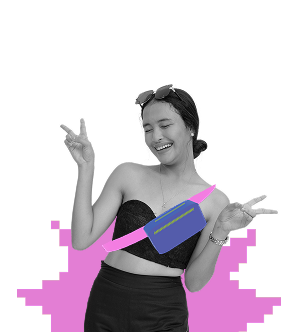
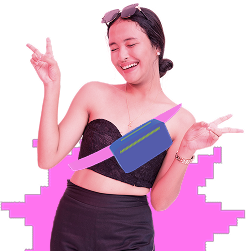
#58 adding extra content, images, updating the current style & more

diff --git a/website/campaignsite/src/css/global.css b/website/campaignsite/src/css/global.css
@@ -329,23 +329,46 @@ Image {
     box-shadow: 0rem 0rem var(--color-accent-green);
 }
 
+.pov__cards {
+    display: flex;
+    flex-flow: row nowrap;
+    justify-content: space-around;
+}
+
 .pov__card {
     background: var(--color-white);
-    max-width: 20rem;
+    max-width: 18rem;
+    width: 100%;
+}
+
+.pov__image {
+    justify-self: end;
+}
+
+.pov__title {
+    font-family: "AntwerpRegular";
+    font-size: 24px;
+    padding: 1rem;
 }
 
 .pov__content {
     display: grid;
     place-items: center;
+    height: 100%;
 }
 
 .pov__bottom {
     background: var(--color-accent-green);
     padding: 1rem;
+    width: 100%;
+    min-height: 7rem;
+    align-self: end;
 }
 
 .pov__text {
     text-align: center;
+    font-family: "SunAntwerpen";
+    font-weight: 700;
 }
 
 /* From screen to citytrip ah */
@@ -404,29 +427,45 @@ Image {
 /* Locations */
 .locations {
     place-items: center;
-    background: var(--color-blue);
-    padding: 2rem 0;
     display: flex;
     flex-flow: column nowrap;
-    gap: 2rem;
     overflow: hidden;
 }
 
 .locations__title {
     font-family: "AntwerpRegular";
     font-size: var(--step-0-h2);
-    color: var(--color-white);
+    color: var(--color-black);
     text-align: center;
+    background: var(--color-accent-green);
+    padding: 0.25rem 2rem;
+    translate: 0 2rem;
 }
 
 .locations__list {
     display: flex;
+    justify-content: center;
+    align-items: center;
     color: var(--color-white);
     gap: var(--space-l);
+    background: var(--color-blue);
+    width: 100%;
+    padding: 5rem 0;
 }
 
 .location {
     place-items: center;
+}
+
+.location__city {
+    font-family: "AntwerpRegular";
+    font-weight: 500;
+    color: var(--color-accent-green);
+    padding: 1rem 0;
+}
+
+.locations__bottom {
+    background: var(--color-blue);
 }
 
 /* featured */
@@ -443,6 +482,13 @@ Image {
     overflow: hidden;
 }
 
+.featured__container {
+    display: flex;
+    flex-flow: column nowrap;
+    gap: 5rem;
+    padding: 2rem 0;
+}
+
 .featured__pt2 {
     display: grid;
     padding: 0 0 0 0;
@@ -454,7 +500,6 @@ Image {
     font-family: "AntwerpRegular";
     font-size: var(--step-0-h2);
     font-weight: 500;
-    text-align: center;
 }
 
 .featured__content {
@@ -471,7 +516,6 @@ Image {
     font-family: "SunAntwerpen";
     font-size: var(--font-size-s);
     max-width: 55ch;
-    text-align: center;
 }
 
 .featured__more {
@@ -494,6 +538,7 @@ Image {
     margin: 0;
     width: max-content;
     overflow: hidden;
+    max-width: 100%;
 }
 
 .submission__card {
@@ -505,7 +550,7 @@ Image {
     display: flex;
     flex-flow: row nowrap;
     gap: 2rem;
-    padding: 2rem;
+    padding: 2 0rem;
 }
 
 .submission {
@@ -514,7 +559,7 @@ Image {
 }
 
 .submission__image {
-    box-shadow: 0.5rem 0.75rem #B7EA63;
+    box-shadow: 0.5rem 0.60rem var(--color-blue);
 }
 
 .submission__details {
@@ -593,17 +638,33 @@ Image {
     text-align: center;
 }
 
-.routes__content {
+.hero__top {
+    display: grid;
     place-items: center;
-    color: var(--color-white);
     background: var(--color-dark);
-    padding: 5rem 0;
-    gap: 1rem;
-    display: flex;
-    flex-flow: column nowrap;
 }
 
-.routes__subtitle {
+.routes__content {
+    display: grid;
+    place-items: center;
+    color: var(--color-white);
+    padding: 5rem 0;
+    gap: 1rem;
+    max-width: 35rem;
+}
+
+.hero__subtitle {
+    color: var(--color-black);
+    font-family: "AntwerpRegular";
+    font-size: var(--font-size-s);
+    background: var(--color-accent-green);
+    padding: 0.5rem 2rem;
+    justify-self: end;
+    rotate: -3deg;
+    translate: 0rem -2rem;
+}
+
+.routes__subtext {
     font-family: "SunAntwerpen";
     font-weight: 500;
     color: var(--color-white);
@@ -624,7 +685,7 @@ Image {
     font-size: var(--step-0-h2);
 }
 
-.POV__list {
+.pov__list {
     display: flex;
     flex-flow: row nowrap;
     gap: 5rem;
@@ -635,10 +696,12 @@ Image {
     overflow: hidden;
 }
 
-.POV {
+.pov__name {
     background: var(--color-blue);
     color: var(--color-white);
     padding: 0.5rem 5rem;
+    font-family: "AntwerpRegular";
+    font-size: var(--font-size-s);
 }
 
 /* Routes maps povs */
@@ -670,13 +733,13 @@ Image {
     gap: 5rem;
 }
 
-.stat__list{
+.stat__list {
     display: grid;
     place-items: center;
     gap: 1rem;
 }
 
-.stat__info{
+.stat__info {
     color: var(--color-accent-green);
     font-family: "AntwerpRegular";
 }
@@ -718,6 +781,7 @@ Image {
     padding: 0.5rem 4rem;
     font-size: var(--font-size-s);
     font-family: "AntwerpRegular";
+    max-width: fit-content;
 }
 
 /* Media queries, responsive design */
@@ -746,7 +810,8 @@ Image {
     .route__buttons {
         flex-flow: row nowrap;
     }
-    .route__button{
+
+    .route__button {
         padding: 0.75rem 2rem;
     }
 }

diff --git a/website/campaignsite/src/js/script.js b/website/campaignsite/src/js/script.js
@@ -3,6 +3,9 @@ import { ScrollTrigger } from "gsap/ScrollTrigger";
 
 gsap.registerPlugin(ScrollTrigger);
 
+const routes = document.querySelectorAll(".pov__name");
+console.log(routes);
+
 const handleToggleHero = () => {
     let $heroImg = document.querySelectorAll('.hero__image');
     let $carouselDot = document.querySelectorAll('.carousel__dot');
@@ -30,9 +33,16 @@ const handleToggleHero = () => {
     }, 2500);
 }
 
+const handleToggleRoute = (e) => {
+    console.log(e);
+}
+
 const init = () => {
     console.log("hey");
-    handleToggleHero();
+    // handleToggleHero();
+    routes.forEach(route => {
+        route.addEventListener("click", handleToggleRoute);
+    })
 }
 
 init()
